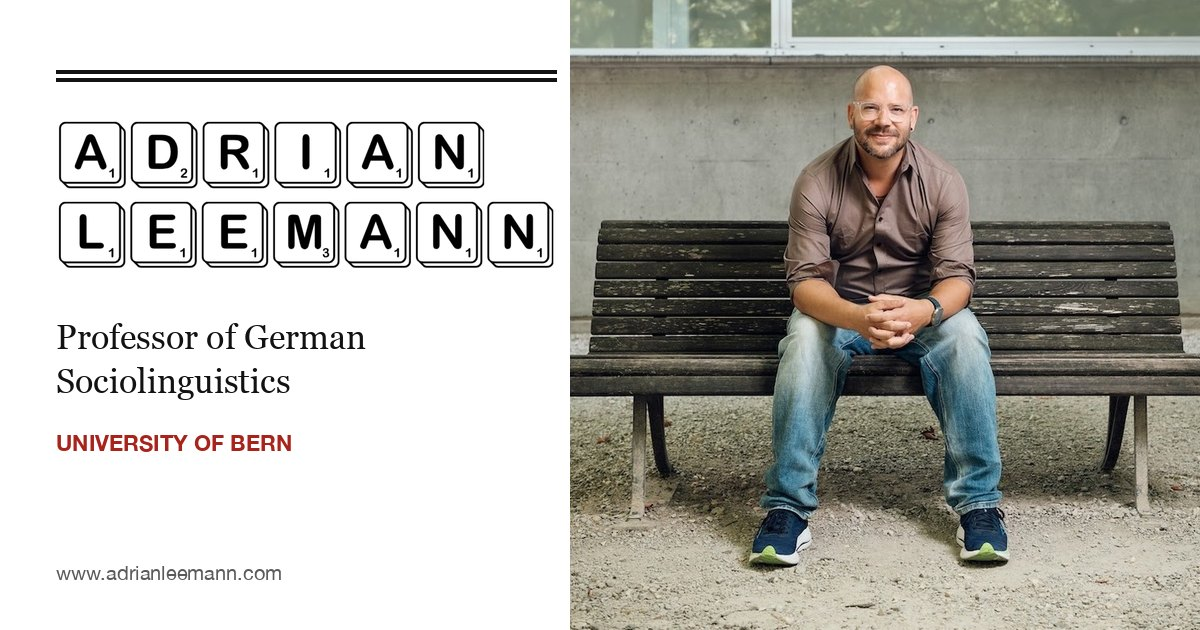
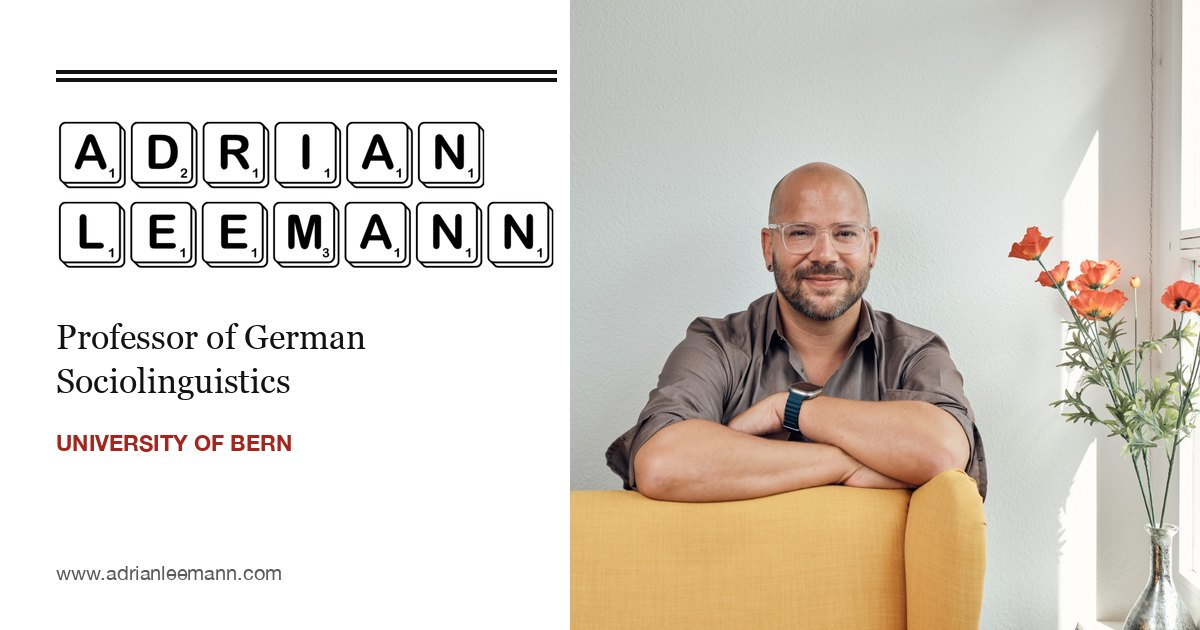
New photos: home (yellow armchair), Bio (bench), share card

diff --git a/short-bio/index.html b/short-bio/index.html
@@ -61,12 +61,12 @@ ul.task-list li input[type="checkbox"] {
 <meta property="og:description" content="Short bio of Adrian Leemann, Professor of German Sociolinguistics at the University of Bern.">
 <meta property="og:image" content="https://www.adrianleemann.com/img/portrait.jpg">
 <meta property="og:site_name" content="Adrian Leemann">
-<meta property="og:image:alt" content="Adrian Leemann">
+<meta property="og:image:alt" content="Adrian Leemann sitting on a wooden bench, looking to the side">
 <meta name="twitter:title" content="Bio">
 <meta name="twitter:description" content="Short bio of Adrian Leemann, Professor of German Sociolinguistics at the University of Bern.">
 <meta name="twitter:image" content="https://www.adrianleemann.com/img/portrait.jpg">
 <meta name="twitter:card" content="summary_large_image">
-<meta name="twitter:image:alt" content="Adrian Leemann">
+<meta name="twitter:image:alt" content="Adrian Leemann sitting on a wooden bench, looking to the side">
 </head>
 
 <body class="nav-fixed quarto-light">
@@ -162,7 +162,7 @@ ul.task-list li input[type="checkbox"] {
 </header>
 
 
-<div class="wrap"><header class="measure phead"><p class="kicker">About</p><h1 class="ptitle">Bio</h1></header><div class="article"><div><p class="lead-p">I have been Professor of German Sociolinguistics at the University of Bern since 2022. Before that, I held an SNSF Eccellenza professorship in Bern and positions in Lancaster, Cambridge and Zurich, after a doctorate from Bern (2009) and a habilitation from Zurich (2017).</p><h2 class="section-head">Education</h2><div class="row-item"><div class="when">2017</div><div>Habilitation in German Linguistics, University of Zurich</div></div><div class="row-item"><div class="when">2009</div><div>Doctorate in General Linguistics, University of Bern</div></div><div class="row-item"><div class="when">2005</div><div>Master's in English Language and General Linguistics, University of Bern</div></div><div class="row-item"><div class="when">2004</div><div>Visiting student, Department of Linguistics, New York University</div></div><div class="row-item"><div class="when">2002</div><div>Visiting student, Department of English, University of Winnipeg</div></div><h2 class="section-head">Positions</h2><div class="row-item"><div class="when">until 01/2027</div><div>Managing Director, Institute of Germanic Languages and Literatures, University of Bern</div></div><div class="row-item"><div class="when">2022–</div><div>Full Professor of German Sociolinguistics, Institute of Germanic Languages and Literatures, University of Bern</div></div><div class="row-item"><div class="when">2019–2023</div><div>SNSF Eccellenza Professor, Center for the Study of Language and Society, University of Bern</div></div><div class="row-item"><div class="when">2017–2020</div><div>Co-Investigator (ESRC), Department of Theoretical and Applied Linguistics, University of Cambridge</div></div><div class="row-item"><div class="when">2017–2019</div><div>Assistant Professor (tenured), Department of Linguistics and English Language, Lancaster University</div></div><div class="row-item"><div class="when">2016–2017</div><div>Lectureships at Universities of Bern, Fribourg, and Innsbruck</div></div><div class="row-item"><div class="when">2014–2016</div><div>Postdoc, Department of Theoretical and Applied Linguistics, University of Cambridge</div></div><div class="row-item"><div class="when">2013–2015</div><div>PI, Department of Comparative Linguistics, University of Zurich</div></div><div class="row-item"><div class="when">2011–2014</div><div>Postdoc, Department of Comparative Linguistics, University of Zurich</div></div><div class="row-item"><div class="when">2009–2011</div><div>Postdoc, Department of Linguistics, University of Bern</div></div><div class="row-item"><div class="when">2008–2009</div><div>PhD student, Department of Communication Engineering, University of Tokyo</div></div><div class="row-item"><div class="when">2005–2008</div><div>PhD student, Department of General Linguistics, University of Bern</div></div><details class="more-block"><summary>Professional development</summary><div class="row-item"><div class="when">06/2015</div><div>Supervising graduate students, University of Cambridge Personal Development Program</div></div><div class="row-item"><div class="when">06/2015</div><div>How to peer-review research papers. University of Cambridge Researcher Development Program</div></div><div class="row-item"><div class="when">03/2015</div><div>CLARIN workshop on speech databases. University of Munich</div></div><div class="row-item"><div class="when">03/2015</div><div>Supporting PhD students with mental health difficulties. University of Cambridge Personal and Professional Development</div></div><div class="row-item"><div class="when">11/2014</div><div>Media training for researchers. MAZ Luzern</div></div><div class="row-item"><div class="when">11/2014</div><div>User Experience Basic Training. Nielsen Norman Group, London</div></div><div class="row-item"><div class="when">11/2014</div><div>Getting the most out of meetings. University of Cambridge Researcher Development Program</div></div><div class="row-item"><div class="when">10/2014</div><div>Myers-Briggs Type Indicator (MBTI). University of Cambridge Researcher Development Program</div></div><div class="row-item"><div class="when">10/2014</div><div>Digital Marketing. Digital Marketing Academy, Cambridge</div></div><div class="row-item"><div class="when">10/2014</div><div>Getting the most out of conferences. University of Cambridge Researcher Development Program</div></div><div class="row-item"><div class="when">12/2013</div><div>Leadership skills for postdocs. University of Zurich</div></div><div class="row-item"><div class="when">11/2013</div><div>Successful conflict management. University of Zurich</div></div><div class="row-item"><div class="when">11/2013</div><div>Media training for researchers. MAZ Luzern</div></div><div class="row-item"><div class="when">05/2013</div><div>Successful fund acquisition for postdocs. University of Zurich</div></div><div class="row-item"><div class="when">01/2013</div><div>Project management for successful postdocs. University of Zurich</div></div></details></div><div class="facts-col"><figure class="pfig figure" style="margin-top:0"><img src="../img/portrait.jpg" alt="Adrian Leemann" class="figure-img"></figure><dl class="facts"><div><dt>Email</dt><dd><a href="mailto:adrian.leemann@unibe.ch">adrian.leemann@unibe.ch</a></dd></div><div><dt>ORCID</dt><dd><a href="https://orcid.org/0000-0001-9401-8938">0000-0001-9401-8938</a></dd></div><div><dt>Profiles</dt><dd><a href="https://scholar.google.com/citations?user=XZo6aWcAAAAJ&amp;hl=en">Google Scholar</a><br><a href="https://www.linkedin.com/in/adrianleemann">LinkedIn</a></dd></div></dl></div></div></div>
+<div class="wrap"><header class="measure phead"><p class="kicker">About</p><h1 class="ptitle">Bio</h1></header><div class="article"><div><p class="lead-p">I have been Professor of German Sociolinguistics at the University of Bern since 2022. Before that, I held an SNSF Eccellenza professorship in Bern and positions in Lancaster, Cambridge and Zurich, after a doctorate from Bern (2009) and a habilitation from Zurich (2017).</p><h2 class="section-head">Education</h2><div class="row-item"><div class="when">2017</div><div>Habilitation in German Linguistics, University of Zurich</div></div><div class="row-item"><div class="when">2009</div><div>Doctorate in General Linguistics, University of Bern</div></div><div class="row-item"><div class="when">2005</div><div>Master's in English Language and General Linguistics, University of Bern</div></div><div class="row-item"><div class="when">2004</div><div>Visiting student, Department of Linguistics, New York University</div></div><div class="row-item"><div class="when">2002</div><div>Visiting student, Department of English, University of Winnipeg</div></div><h2 class="section-head">Positions</h2><div class="row-item"><div class="when">until 01/2027</div><div>Managing Director, Institute of Germanic Languages and Literatures, University of Bern</div></div><div class="row-item"><div class="when">2022–</div><div>Full Professor of German Sociolinguistics, Institute of Germanic Languages and Literatures, University of Bern</div></div><div class="row-item"><div class="when">2019–2023</div><div>SNSF Eccellenza Professor, Center for the Study of Language and Society, University of Bern</div></div><div class="row-item"><div class="when">2017–2020</div><div>Co-Investigator (ESRC), Department of Theoretical and Applied Linguistics, University of Cambridge</div></div><div class="row-item"><div class="when">2017–2019</div><div>Assistant Professor (tenured), Department of Linguistics and English Language, Lancaster University</div></div><div class="row-item"><div class="when">2016–2017</div><div>Lectureships at Universities of Bern, Fribourg, and Innsbruck</div></div><div class="row-item"><div class="when">2014–2016</div><div>Postdoc, Department of Theoretical and Applied Linguistics, University of Cambridge</div></div><div class="row-item"><div class="when">2013–2015</div><div>PI, Department of Comparative Linguistics, University of Zurich</div></div><div class="row-item"><div class="when">2011–2014</div><div>Postdoc, Department of Comparative Linguistics, University of Zurich</div></div><div class="row-item"><div class="when">2009–2011</div><div>Postdoc, Department of Linguistics, University of Bern</div></div><div class="row-item"><div class="when">2008–2009</div><div>PhD student, Department of Communication Engineering, University of Tokyo</div></div><div class="row-item"><div class="when">2005–2008</div><div>PhD student, Department of General Linguistics, University of Bern</div></div><details class="more-block"><summary>Professional development</summary><div class="row-item"><div class="when">06/2015</div><div>Supervising graduate students, University of Cambridge Personal Development Program</div></div><div class="row-item"><div class="when">06/2015</div><div>How to peer-review research papers. University of Cambridge Researcher Development Program</div></div><div class="row-item"><div class="when">03/2015</div><div>CLARIN workshop on speech databases. University of Munich</div></div><div class="row-item"><div class="when">03/2015</div><div>Supporting PhD students with mental health difficulties. University of Cambridge Personal and Professional Development</div></div><div class="row-item"><div class="when">11/2014</div><div>Media training for researchers. MAZ Luzern</div></div><div class="row-item"><div class="when">11/2014</div><div>User Experience Basic Training. Nielsen Norman Group, London</div></div><div class="row-item"><div class="when">11/2014</div><div>Getting the most out of meetings. University of Cambridge Researcher Development Program</div></div><div class="row-item"><div class="when">10/2014</div><div>Myers-Briggs Type Indicator (MBTI). University of Cambridge Researcher Development Program</div></div><div class="row-item"><div class="when">10/2014</div><div>Digital Marketing. Digital Marketing Academy, Cambridge</div></div><div class="row-item"><div class="when">10/2014</div><div>Getting the most out of conferences. University of Cambridge Researcher Development Program</div></div><div class="row-item"><div class="when">12/2013</div><div>Leadership skills for postdocs. University of Zurich</div></div><div class="row-item"><div class="when">11/2013</div><div>Successful conflict management. University of Zurich</div></div><div class="row-item"><div class="when">11/2013</div><div>Media training for researchers. MAZ Luzern</div></div><div class="row-item"><div class="when">05/2013</div><div>Successful fund acquisition for postdocs. University of Zurich</div></div><div class="row-item"><div class="when">01/2013</div><div>Project management for successful postdocs. University of Zurich</div></div></details></div><div class="facts-col"><figure class="pfig figure" style="margin-top:0"><img src="../img/portrait.jpg" alt="Adrian Leemann sitting on a wooden bench, looking to the side" class="figure-img"></figure><dl class="facts"><div><dt>Email</dt><dd><a href="mailto:adrian.leemann@unibe.ch">adrian.leemann@unibe.ch</a></dd></div><div><dt>ORCID</dt><dd><a href="https://orcid.org/0000-0001-9401-8938">0000-0001-9401-8938</a></dd></div><div><dt>Profiles</dt><dd><a href="https://scholar.google.com/citations?user=XZo6aWcAAAAJ&amp;hl=en">Google Scholar</a><br><a href="https://www.linkedin.com/in/adrianleemann">LinkedIn</a></dd></div></dl></div></div></div>
 
 
 

diff --git a/index.html b/index.html
@@ -168,7 +168,7 @@ ul.task-list li input[type="checkbox"] {
     <p class="dek">I am a full professor of German sociolinguistics at the University of Bern. I study how and why the way people speak varies and changes across regions, generations and social groups, in Swiss German, German and English, using large-scale data from fieldwork, smartphone apps and perception experiments.</p>
     <nav class="idlinks" aria-label="Profiles"><a href="mailto:adrian.leemann@unibe.ch">Email</a><a href="https://orcid.org/0000-0001-9401-8938">ORCID</a><a href="https://scholar.google.com/citations?user=XZo6aWcAAAAJ&amp;hl=en">Google Scholar</a><a href="https://www.linkedin.com/in/adrianleemann">LinkedIn</a></nav>
   </div>
-  <figure class="figure"><img src="img/portrait-square.jpg" alt="Adrian Leemann sitting on a wooden bench in front of a concrete wall" class="figure-img"></figure>
+  <figure class="figure"><img src="img/portrait-square.jpg" alt="Adrian Leemann leaning on the back of a yellow armchair, next to a vase of red poppies" class="figure-img"></figure>
 </header>
 
 <h2 class="section-head" id="projects">Projects <a href="./projects/">All projects</a></h2>
